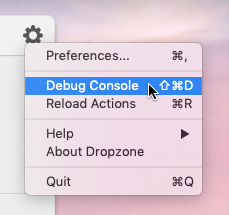
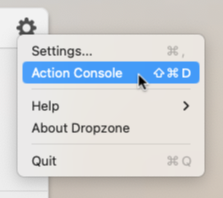
docs: update README.md and open-debug-console.png

diff --git a/README.md b/README.md
@@ -14,7 +14,7 @@ The API documentation for developing Dropzone 4 Add-on actions is provided below
 - [Developing an Action](#developing-an-action)
   - [Generated Template Action](#generated-template-action)
   - [Copy and Edit an existing action](#copy-and-edit-an-existing-action)
-- [Debug Console](#debug-console)
+- [Debug Console](#action-debug-console)
 - [Dragged Types](#dragged-types)
 - [Python Support](#python-support)
   - [Accessing OptionsNIB environment variables](#accessing-optionsnib-environment-variables)
@@ -129,15 +129,15 @@ The other way you can develop a new action is by right clicking on an existing a
 
 ![Copy & Edit](https://raw.githubusercontent.com/aptonic/dropzone4-actions/master/docs/copy-and-edit.png)
 
-## Debug Console
+## Action Debug Console
 
-The debug console makes it quick and easy to view the output and environment of your action. To open the debug console, click on the Settings gear in the top right of the Dropzone grid and click 'Debug Console' - you can also open it by first clicking the Dropzone menu item so Dropzone gets keyboard focus and then pressing Cmd+Shift+D
+The action debug console makes it quick and easy to view the output and environment of your action. To open the action debug console, click on the Settings gear in the top right of the Dropzone grid, hold down the option key and click 'Action Console' - you can also open it by first clicking the Dropzone menu item so Dropzone gets keyboard focus and then pressing Cmd+Shift+D
 
-![Open Debug Console](https://raw.githubusercontent.com/aptonic/dropzone4-actions/master/docs/open-debug-console.png)
+![Open Action Console](https://raw.githubusercontent.com/aptonic/dropzone4-actions/master/docs/open-debug-console.png)
 
-![Debug Console](https://raw.githubusercontent.com/aptonic/dropzone4-actions/master/docs/debug-console.png)
+![Action Console](https://raw.githubusercontent.com/aptonic/dropzone4-actions/master/docs/debug-console.png)
 
-The screenshot above shows the debug console after dropping two files onto the template action (the code for this is given in the [above section](#generated-template-action)). When a task is run, Dropzone creates a task description file that contains all the needed info to start the task. The runner.rb Ruby script (located inside the Dropzone.app application bundle at Contents/Actions/lib/runner.rb) then reads this task description file, sets environment variables and then calls the appropriate method in your action.rb or action.py script. The task description file contents are output in the debug console when running a task.
+The screenshot above shows the action debug console after dropping two files onto the template action (the code for this is given in the [above section](#generated-template-action)). When a task is run, Dropzone creates a task description file that contains all the needed info to start the task. The runner.rb Ruby script (located inside the Dropzone.app application bundle at Contents/Actions/lib/runner.rb) then reads this task description file, sets environment variables and then calls the appropriate method in your action.rb or action.py script. The task description file contents are output in the debug console when running a task.
 
 In the above example, the task description file contents were:
 
@@ -151,7 +151,7 @@ ITEMS: "/Users/john/Desktop/Test2.jpeg" "/Users/john/Desktop/Test.jpeg"
 
 The ACTION and EVENT fields are used by runner.rb to determine which action bundle to use and which method to call in your script. The VARIABLE fields can be accessed in your script using the ENV['variable_name'] global.
 
-Note that output that was recognized and processed by Dropzone is shown in black (this is output that was generated from calling the $dz methods) while unrecognized output is shown in red. This is useful when debugging your script as if you use puts to output something for debugging purposes you can easily see it. Also, if your action causes a Ruby exception then the debug console will be shown automatically and the backtrace will be shown in red so you can fix the issue.
+Note that output that was recognized and processed by Dropzone is shown in black (this is output that was generated from calling the $dz methods) while unrecognized output is shown in red. This is useful when debugging your script as if you use puts to output something for debugging purposes you can easily see it. Also, if your action causes a Ruby exception then the action debug console will be shown automatically and the backtrace will be shown in red so you can fix the issue.
 
 Clicking on the 'Edit Last' button will open the last run action script in your text editor and clicking 'Rerun Last' runs the last run task again with the same items, drag type and variables. This makes developing and debugging actions faster and easier.
 
@@ -246,7 +246,7 @@ For Python actions you should do:
 dz.begin("Starting some task...")
 ```
 
-To output debug info to the Dropzone [debug console](#debug-console) you should use the Python print() function rather than the puts() function used in Ruby.
+To output debug info to the Dropzone [action debug console](#action-debug-console) you should use the Python print() function rather than the puts() function used in Ruby.
 
 For example:
 
@@ -268,7 +268,7 @@ And then:
 os.environ['variable_name']
 ```
 
-Here's an example action.py that requires a username and password when adding it and then prints these set variables to the Dropzone [debug console](#debug-console) when you click it.
+Here's an example action.py that requires a username and password when adding it and then prints these set variables to the Dropzone [action debug console](#action-debug-console) when you click it.
 
 ```python
 # Dropzone Action Info
@@ -614,7 +614,7 @@ Also see the blog post announcing Pashua support in Dropzone [here.](https://apt
 
 ## Saving and loading values
 
-Your action can store string values in the Dropzone database by calling $dz.save_value(value_name, value). This is useful for storing configuration for your action - e.g. when your action first runs you could use Pashua to prompt for a setting and then store the result. When your action is next run, all saved values are set as environment variables and can be accessed using ENV['stored_value_name'] in Ruby or os.environ['stored_value_name'] in Python. You can see which variables were set in the [debug console](#debug-console) each time your action is run. If the user has multiple instances of your action setup in the grid, the stored values are unique to each instance.
+Your action can store string values in the Dropzone database by calling $dz.save_value(value_name, value). This is useful for storing configuration for your action - e.g. when your action first runs you could use Pashua to prompt for a setting and then store the result. When your action is next run, all saved values are set as environment variables and can be accessed using ENV['stored_value_name'] in Ruby or os.environ['stored_value_name'] in Python. You can see which variables were set in the [debug console](#action-debug-console) each time your action is run. If the user has multiple instances of your action setup in the grid, the stored values are unique to each instance.
 
 Example
 
